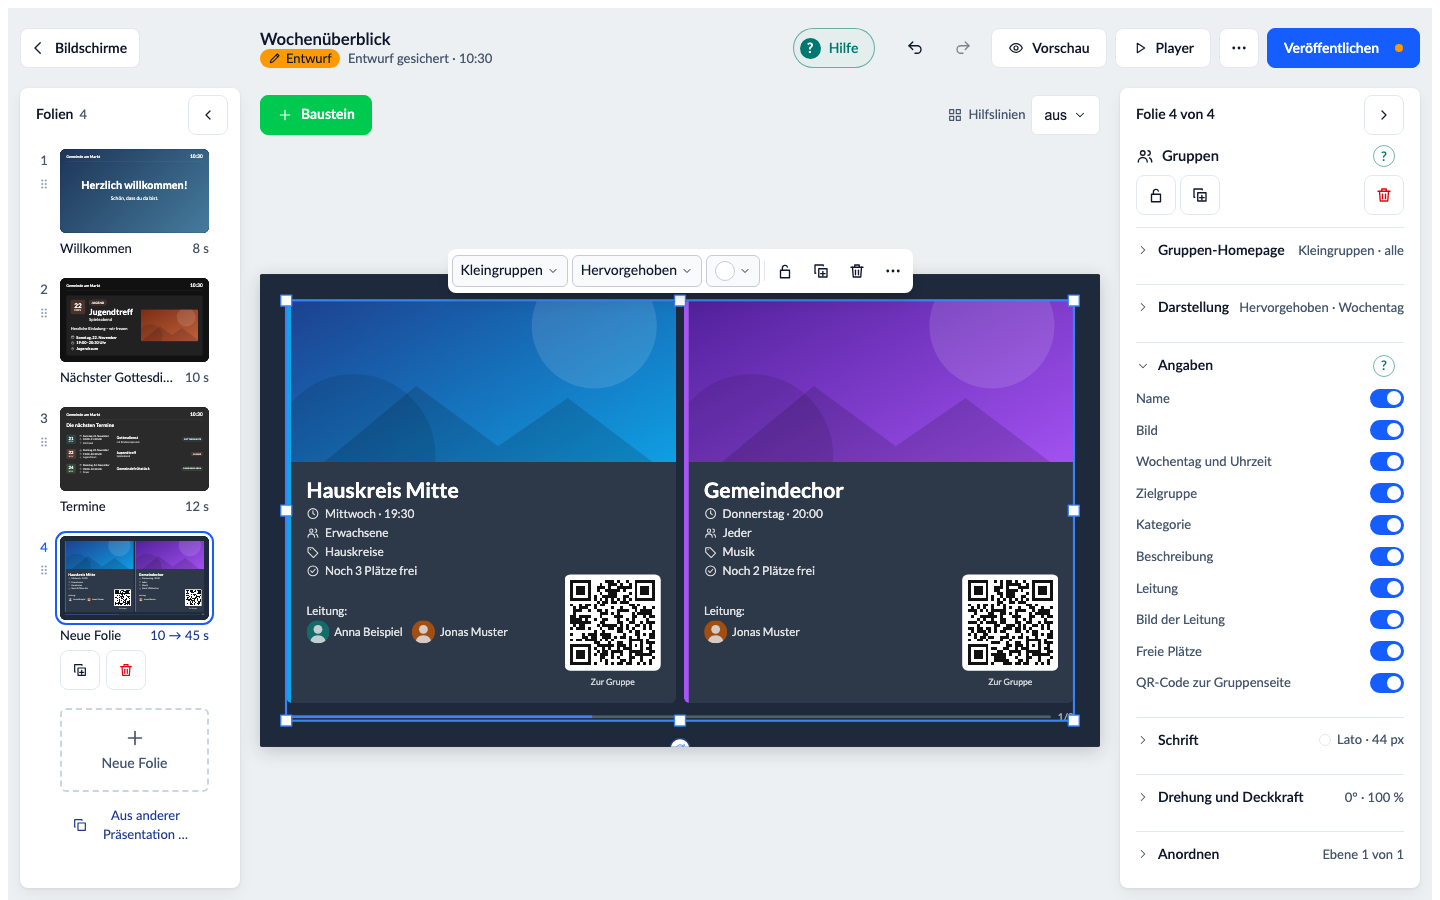
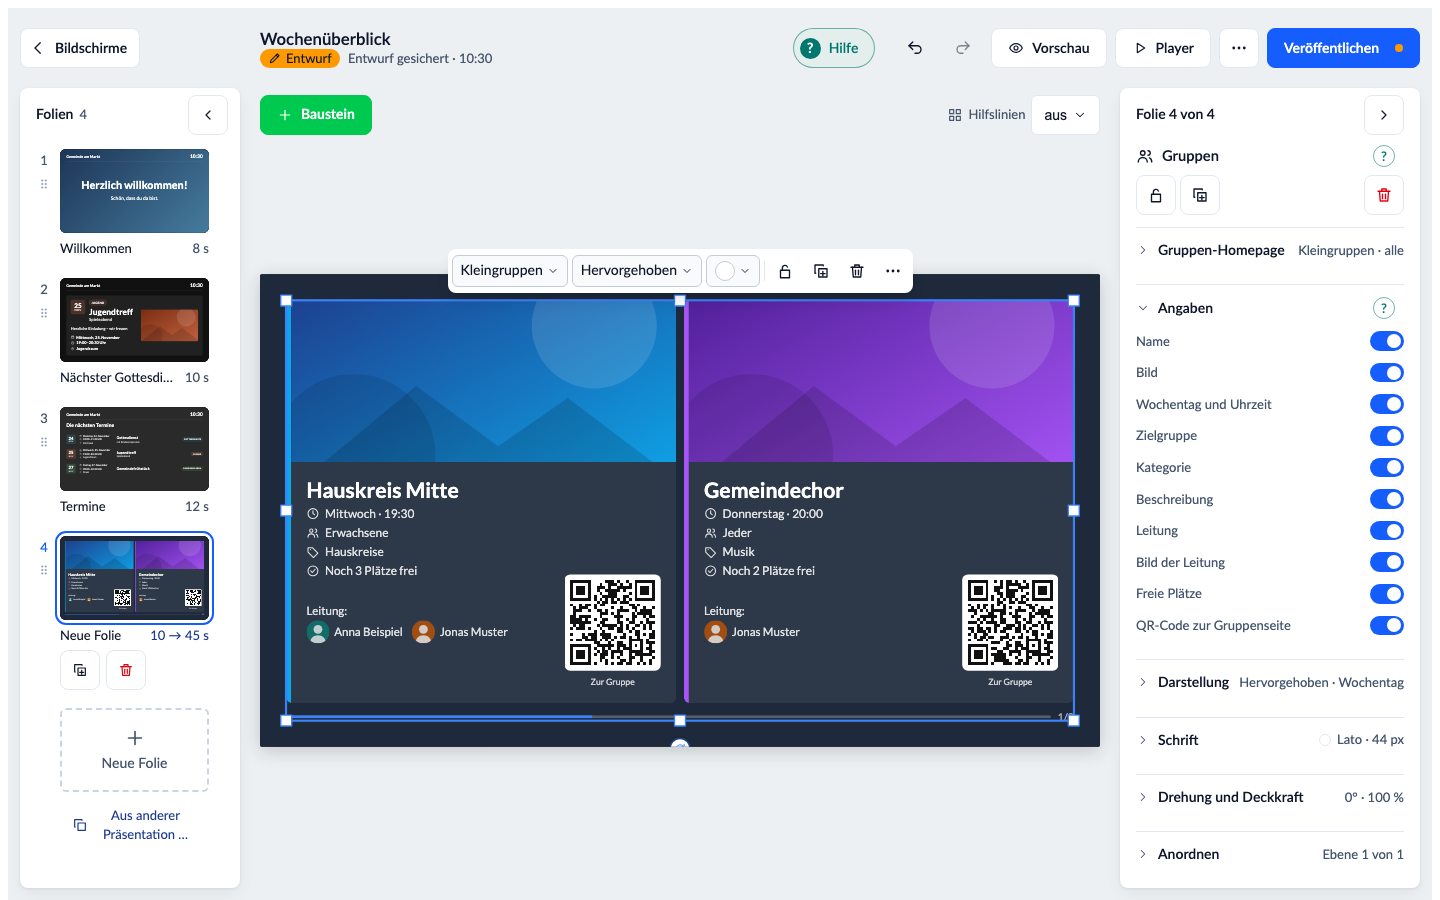
Ein Klappmenü „Angaben“ für Gruppen, Beiträge und Personen (Punkt 128) (#370)
Vorschlag aus #296.

Changed region(s): [[0.7812, 0.3111, 1.0, 0.7778], [0.8125, 0.3111, 0.8438, 0.3733]]

diff --git a/src/designer/inspector/blocks/PeopleInspector.vue b/src/designer/inspector/blocks/PeopleInspector.vue
@@ -15,6 +15,7 @@ import PageProgressHint from '../PageProgressHint.vue';
 import PageProgressOptions from '../PageProgressOptions.vue';
 import PageProgressToggle from '../PageProgressToggle.vue';
 import InspectorSection from '../../InspectorSection.vue';
+import DetailsSection from '../DetailsSection.vue';
 import SelectMenu, { type SelectOption } from '../../SelectMenu.vue';
 import SelectField from '../fields/SelectField.vue';
 import QuickField from '../fields/QuickField.vue';
@@ -252,37 +253,6 @@ const appearanceHelp = computed(() => ({
         </template>
     </InspectorSection>
 
-    <!-- Choosing and ordering what stands under the name is one chip "Angaben 2 von 5" in the short menu (Plan.md 79, C5; 114 B). -->
-    <QuickField quick :label="t.inspector.peopleFields" :face="entriesFace">
-        <SelectMenu
-            :model-value="undefined"
-            :options="pickable"
-            :placeholder="t.inspector.addField"
-            :disabled="!pickable.length"
-            :aria-label="t.inspector.addFieldLabel"
-            testid="people-fields-add"
-            @update:model-value="addEntry"
-        />
-        <p v-if="!keys.length" class="hint">{{ loaded && !fields.length && !released.length ? t.inspector.noFieldsThere : t.inspector.noFieldsChosen }}</p>
-        <InspectorSection v-else id="people-fields" :title="t.inspector.peopleFields" :summary="entriesSummary" :help="th.people.fields">
-            <SortList :items="chosen" :remove-label="t.inspector.removeField" testid="people-field" @move="moveEntry" @remove="removeEntry">
-                <template #actions="{ item }">
-                    <button
-                        v-tip="t.inspector.pinRight"
-                        class="sort-action"
-                        type="button"
-                        :aria-label="t.inspector.pinRight"
-                        :aria-pressed="right.includes(String(item.key))"
-                        data-testid="people-field-pin"
-                        @click="togglePin(String(item.key))"
-                    >
-                        <Icon name="pin" :size="14" />
-                    </button>
-                </template>
-            </SortList>
-        </InspectorSection>
-    </QuickField>
-
     <InspectorSection id="people-name" :title="t.inspector.peopleName" :summary="nameSummary" :help="th.people.name">
         <SelectField
             :model-value="namePresetValue"
@@ -302,6 +272,37 @@ const appearanceHelp = computed(() => ({
             @update:model-value="insertPlaceholder"
         />
     </InspectorSection>
+
+    <!-- Choosing and ordering what stands under the name is one chip "Angaben 2 von 5" in the short menu (Plan.md 79, C5; 114 B); "+ Angabe" is the last row of the section (Plan.md 128). -->
+    <QuickField quick :label="t.inspector.peopleFields" :face="entriesFace">
+        <DetailsSection :summary="entriesSummary" :help="th.people.fields">
+            <SortList v-if="keys.length" :items="chosen" :remove-label="t.inspector.removeField" testid="people-field" @move="moveEntry" @remove="removeEntry">
+                <template #actions="{ item }">
+                    <button
+                        v-tip="t.inspector.pinRight"
+                        class="sort-action"
+                        type="button"
+                        :aria-label="t.inspector.pinRight"
+                        :aria-pressed="right.includes(String(item.key))"
+                        data-testid="people-field-pin"
+                        @click="togglePin(String(item.key))"
+                    >
+                        <Icon name="pin" :size="14" />
+                    </button>
+                </template>
+            </SortList>
+            <p v-else class="hint">{{ loaded && !fields.length && !released.length ? t.inspector.noFieldsThere : t.inspector.noFieldsChosen }}</p>
+            <SelectMenu
+                :model-value="undefined"
+                :options="pickable"
+                :placeholder="t.inspector.addField"
+                :disabled="!pickable.length"
+                :aria-label="t.inspector.addFieldLabel"
+                testid="people-fields-add"
+                @update:model-value="addEntry"
+            />
+        </DetailsSection>
+    </QuickField>
 
     <InspectorSection id="appearance" :title="t.inspector.appearance" :summary="summary" :help="appearanceHelp">
         <TileField quick :model-value="block.layout" :options="PEOPLE_TILES" :label="t.inspector.view" testid="people-layout" @update:model-value="setBlock({ layout: $event })" />

diff --git a/e2e/editor.spec.ts b/e2e/editor.spec.ts
@@ -418,7 +418,7 @@ test.describe('with a finger, in both browsers', () => {
         await page.getByTestId('add-block-menu').click();
         const sheet = page.getByTestId('block-sheet');
         await expect(sheet).toBeVisible();
-        await expect(sheet.locator('[data-testid^="sheet-add-"]')).toHaveCount(19);
+        await expect(sheet.locator('[data-testid^="sheet-add-"]')).toHaveCount(20);
         await sheet.getByTestId('sheet-add-qr').click();
         await expect(sheet).toHaveCount(0);
 
@@ -2344,7 +2344,7 @@ test('the "+ Baustein" sheet describes each block and searches name and sentence
     await expect(sheet).toHaveCount(0);
     await page.getByTestId('add-block-menu').click();
     await expect(page.getByTestId('block-search')).toHaveValue('');
-    await expect(page.getByTestId('block-sheet').locator('[data-testid^="sheet-add-"]')).toHaveCount(19);
+    await expect(page.getByTestId('block-sheet').locator('[data-testid^="sheet-add-"]')).toHaveCount(20);
 });
 
 test('a new text begins as a heading; the text level sets size and weight in one step (Plan.md 79, C8)', async ({ page }) => {
@@ -2559,4 +2559,24 @@ test.describe('drafts (Plan.md 79, Paket E)', () => {
         await expect(flag).toHaveText('Entwurf');
         await expect(flag).toHaveAttribute('data-tip', /^Entwurf von .+, heute \d\d:\d\d – noch nicht veröffentlicht$/);
     });
+});
+
+// "Angaben" is the same section in groups, posts and people, right before "Darstellung"; with people the "+" stands inside (Plan.md 128).
+test('Angaben stands before Darstellung in groups, posts and people, with the plus inside for people', async ({ page }) => {
+    await page.goto('./');
+    await page.getByTestId('open-editor').first().click();
+    await expect(page.getByTestId('slide-item')).toHaveCount(3);
+    await page.getByTestId('add-slide').click();
+    for (const type of ['groups', 'posts', 'people']) {
+        await addBlock(page, type);
+        const ids = await page.locator('[data-testid^="section-"]:not([data-testid$="-toggle"])').evaluateAll((els) => els.map((el) => el.getAttribute('data-testid')));
+        expect(ids.indexOf('section-fields')).toBeGreaterThan(-1);
+        expect(ids.indexOf('section-appearance')).toBe(ids.indexOf('section-fields') + 1);
+    }
+    await openSection(page, 'fields');
+    await page.getByTestId('people-field-remove').click();
+    await expect(page.getByTestId('people-field-row')).toHaveCount(0);
+    await expect(page.getByTestId('section-fields').getByTestId('people-fields-add')).toBeVisible();
+    // The hint stands inside the section too, not before it.
+    await expect(page.getByTestId('section-fields')).toContainText('Noch keine Angaben gewählt');
 });

diff --git a/src/designer/inspector/blocks/PostsInspector.vue b/src/designer/inspector/blocks/PostsInspector.vue
@@ -12,6 +12,7 @@ import PageProgressHint from '../PageProgressHint.vue';
 import PageProgressOptions from '../PageProgressOptions.vue';
 import PageProgressToggle from '../PageProgressToggle.vue';
 import InspectorSection from '../../InspectorSection.vue';
+import DetailsSection from '../DetailsSection.vue';
 import { useInspectorContext } from '../context';
 import NumberField from '../fields/NumberField.vue';
 import SegmentField from '../fields/SegmentField.vue';
@@ -106,6 +107,17 @@ function toggleGroup(id: number, on: boolean): void {
             </p>
         </InspectorSection>
     </QuickField>
+    <DetailsSection :summary="fieldsSummary" :help="p.details">
+        <ToggleField
+            v-for="key in SHOW_KEYS"
+            :key="key"
+            :model-value="block[key]"
+            :label="SHOW_LABELS[key]"
+            :disabled="block.layout === 'list' && (key === 'showImage' || key === 'showAuthor')"
+            :testid="key === 'showImage' ? 'posts-image' : key === 'showAuthor' ? 'posts-author' : `posts-${key.slice(4).toLowerCase()}`"
+            @update:model-value="setBlock({ [key]: $event })"
+        />
+    </DetailsSection>
     <InspectorSection id="appearance" :title="t.inspector.appearance" :summary="summary" :help="appearanceHelp">
         <TileField quick :model-value="block.layout" :options="POSTS_TILES" :label="t.inspector.view" testid="posts-layout" @update:model-value="setBlock({ layout: $event })" />
         <NumberField :model-value="block.limit" :label="t.inspector.count" :min="1" :max="10" testid="posts-limit" @update:model-value="setBlock({ limit: $event })" />
@@ -143,17 +155,6 @@ function toggleGroup(id: number, on: boolean): void {
                 @update:model-value="setBlock({ imageFocus: $event })"
             />
         </template>
-    </InspectorSection>
-    <InspectorSection id="fields" :title="t.inspector.details" :summary="fieldsSummary" :help="p.details">
-        <ToggleField
-            v-for="key in SHOW_KEYS"
-            :key="key"
-            :model-value="block[key]"
-            :label="SHOW_LABELS[key]"
-            :disabled="block.layout === 'list' && (key === 'showImage' || key === 'showAuthor')"
-            :testid="key === 'showImage' ? 'posts-image' : key === 'showAuthor' ? 'posts-author' : `posts-${key.slice(4).toLowerCase()}`"
-            @update:model-value="setBlock({ [key]: $event })"
-        />
     </InspectorSection>
     <FontSection :block="block" effects="shadow" />
 </template>

diff --git a/src/designer/inspector/blocks/GroupsInspector.vue b/src/designer/inspector/blocks/GroupsInspector.vue
@@ -14,6 +14,7 @@ import PageProgressHint from '../PageProgressHint.vue';
 import PageProgressOptions from '../PageProgressOptions.vue';
 import PageProgressToggle from '../PageProgressToggle.vue';
 import InspectorSection from '../../InspectorSection.vue';
+import DetailsSection from '../DetailsSection.vue';
 import { useInspectorContext } from '../context';
 import NumberField from '../fields/NumberField.vue';
 import SegmentField from '../fields/SegmentField.vue';
@@ -184,6 +185,18 @@ const fieldsSummary = computed(() => t.common.countOf(GROUP_SHOW_KEYS.filter((ke
         </template>
     </InspectorSection>
 
+    <DetailsSection :summary="fieldsSummary" :help="help.details">
+        <ToggleField
+            v-for="key in GROUP_SHOW_KEYS"
+            :key="key"
+            :model-value="block.show[key]"
+            :label="GROUP_SHOW_LABELS[key]"
+            :disabled="(block.layout === 'list' && (key === 'note' || key === 'qr' || key === 'leaderImages')) || (key === 'leaderImages' && !block.show.leaders)"
+            :testid="`group-show-${key}`"
+            @update:model-value="setBlock({ show: { ...block.show, [key]: $event } })"
+        />
+    </DetailsSection>
+
     <InspectorSection id="appearance" :title="t.inspector.appearance" :summary="summary" :help="appearanceHelp">
         <TileField quick :model-value="block.layout" :options="GROUPS_TILES" :label="t.inspector.view" testid="groups-layout" @update:model-value="setBlock({ layout: $event })" />
         <SegmentField
@@ -217,17 +230,6 @@ const fieldsSummary = computed(() => t.common.countOf(GROUP_SHOW_KEYS.filter((ke
         <PageProgressHint />
     </InspectorSection>
 
-    <InspectorSection id="fields" :title="t.inspector.details" :summary="fieldsSummary" :help="help.details">
-        <ToggleField
-            v-for="key in GROUP_SHOW_KEYS"
-            :key="key"
-            :model-value="block.show[key]"
-            :label="GROUP_SHOW_LABELS[key]"
-            :disabled="(block.layout === 'list' && (key === 'note' || key === 'qr' || key === 'leaderImages')) || (key === 'leaderImages' && !block.show.leaders)"
-            :testid="`group-show-${key}`"
-            @update:model-value="setBlock({ show: { ...block.show, [key]: $event } })"
-        />
-    </InspectorSection>
     <FontSection :block="block" effects="shadow" />
 </template>
 

diff --git a/e2e/people.spec.ts b/e2e/people.spec.ts
@@ -18,13 +18,13 @@ test('the people block says the group is not set up, and its inspector keeps its
 
     // Group first, then roles, then the one list "Angaben", then "Darstellung", then "Schrift" (AGENTS.md, Ordnung im Inspektor); nothing is open at the start.
     const ids = await page.locator('[data-testid^="section-"]:not([data-testid$="-toggle"])').evaluateAll((els) => els.map((el) => el.getAttribute('data-testid')));
-    const order = ['section-people-group', 'section-people-roles', 'section-people-fields', 'section-people-name', 'section-appearance', 'section-font'];
+    const order = ['section-people-group', 'section-people-roles', 'section-people-name', 'section-fields', 'section-appearance', 'section-font'];
     expect(ids.filter((id) => order.includes(id!))).toEqual(order);
     await expect(page.getByTestId('section-people-roles')).not.toHaveAttribute('open', '');
 
     await expect(page.getByTestId('section-people-group')).not.toHaveAttribute('open', '');
     // One list "Angaben" (schema 1.56): a new block starts with the role; it can be taken out and put back (Plan.md 114 B).
-    await openSection(page, 'people-fields');
+    await openSection(page, 'fields');
     await expect(page.getByTestId('people-field-name')).toHaveText(['Rolle in der Gruppe']);
     await page.getByTestId('people-field-remove').click();
     await expect(page.getByTestId('people-field-row')).toHaveCount(0);

diff --git a/src/designer/inspector/DetailsSection.vue b/src/designer/inspector/DetailsSection.vue
@@ -1,0 +1,19 @@
+<script setup lang="ts">
+/**
+ * The foldable "Angaben" of a block (Plan.md 128): the same section for groups, posts and people – one id, so open or closed
+ * stays alike from block to block, always there, even without a choice. Fixed details are switches, open ones a sortable list with
+ * "+ Angabe" as its last row (people); the caller puts them into the slot and says "n von m" as `summary`.
+ */
+import { t } from '../../i18n/designer';
+import type { HelpTopic } from '../help/types';
+import InspectorSection from '../InspectorSection.vue';
+
+defineProps<{ summary: string; help: HelpTopic }>();
+defineSlots<{ default(): unknown }>();
+</script>
+
+<template>
+    <InspectorSection id="fields" :title="t.inspector.details" :summary="summary" :help="help">
+        <slot />
+    </InspectorSection>
+</template>

diff --git a/Plan.md b/Plan.md
@@ -26,7 +26,7 @@ Ein ChurchTools Custom Module (CCM), mit dem angemeldete ChurchTools-Anwender In
 10. **Proben: Präsentation vom Handy wählen** (Punkt 125) – Musiker überschreiben für die Probe die Präsentation aus dem Zeitplan, auf freigegebenen Bildschirmen und für eine wählbare Dauer; Eckpunkte entschieden (2026-11-16), noch kein Bauplan.
 11. **Folie an ProPresenter senden** (Punkt 126) – entschieden: Weg A, Web-Element in ProPresenter mit der Adresse eines Players; testen beim Termin vor Ort (wie Punkt 121 F). Wege B bis D für später.
 12. **Kiosk am Touch-Bildschirm prüfen** (Punkt 127, #329) – veröffentlicht mit `v0.64.0`/`v0.64.1`, Punkt im Archiv. Offen: der Test am echten Touch-Bildschirm, sobald Bernhard einen beschafft hat (er nimmt fürs Foyer „erst nach dem ersten Tippen“, mit Schild). **Geparkt:** seine Idee getrennter Bedienelemente für Seite und Baustein (2026-11-22) – erst Erfahrungen im Betrieb sammeln, mehrere blätternde Bausteine auf einer Folie hält er selbst für unpraktisch.
-13. **Ein Bedienelement „Angaben“** (Punkt 128, #296) – Wunsch von Bernhard: alle Bausteine wählen ihre Angaben gleich; heute verschieden bei „Gruppen“ und „Personen“. Noch kein Bauplan. Beantwortet am 2026-11-23 (verspätet).
+13. **Ein Bedienelement „Angaben“** (Punkt 128, #296) – Wunsch von Bernhard: alle Bausteine wählen ihre Angaben gleich; heute verschieden bei „Gruppen“ und „Personen“. Gebaut (2026-11-23, unveröffentlicht). Beantwortet am 2026-11-23 (verspätet).
 14. **Editor übernimmt Änderungen aus ChurchTools** (Punkt 129, #297) – Wunsch von Bernhard: geänderte Daten ohne Neuladen, dazu eine Adresse, die zur bearbeiteten Folie führt. Noch kein Bauplan. Beantwortet am 2026-11-23 (verspätet), mit der Frage, ob ein Knopf „Daten neu laden“ genügt – Antwort steht aus.
 
 **Kleine Reste, kein Auftrag, bis jemand sie wählt** *(durchgesehen mit dem Nutzer am 2026-10-10: später; „Rechte aktualisieren“ echt ausprobiert, ohne Auffälligkeiten)*:
@@ -545,7 +545,17 @@ Hier stehen nur Punkte, die noch nicht veröffentlicht sind, mit vollem Text. Di
         - **D – Lokale API:** löst Folien und Meldungen in ProPresenter aus, schickt also Steuerung oder Text, kein Bild. Vom Player aus voraussichtlich nicht erreichbar (HTTPS → HTTP im lokalen Netz, G82), nur über ein Hilfsprogramm auf dem ProPresenter-Rechner – dasselbe wie für 121 F.
     - **Test von A beim Termin vor Ort** (zusammen mit 121 F): eigenen Bildschirm „ProPresenter“ anlegen, seine Player-Adresse als Web-Element in eine ProPresenter-Folie setzen; prüfen: Anmeldung und Sitzung über Tage, Service Worker und Offline-Kopie, Videos mit Ton, Auflösung und Seitenverhältnis, durchsichtiger Hintergrund für Einblendungen über Video, Verhalten beim Wechsel der ProPresenter-Folie (lädt der Player jedes Mal neu?). Ergebnis als Befund in Befunde.md.
 
-128. **Ein einheitliches Bedienelement „Angaben“** *(Issue #296, Wunsch von Bernhard, 2026-11-08; noch kein Bauplan)*. Heute wählen die Bausteine ihre Angaben verschieden: „Gruppen“ bietet alle möglichen Angaben mit Schaltern an, „Personen“ zeigt nur die aktiven, sortierbar und mit Pin, und ergänzt weitere über „+ Angaben“ – das steht dort außerhalb des Klappmenüs „Angaben“. Gewünscht: ein Bedienelement für alle Bausteine; Bernhard skizziert beide Stile, bevorzugt offenbar den von „Personen“ mit dem „+“ in der Liste. Passt zu „Änderungen auf alle Bausteine“ und zur Ordnung im Inspektor (AGENTS.md). **Zu klären:** welcher Stil (oder beide, je nach Zahl der Angaben); welche Bausteine Angaben haben; ob Sortieren und Pin überall Sinn ergeben.
+128. **Ein einheitliches Bedienelement „Angaben“** *(Issue #296, Wunsch von Bernhard, 2026-11-08; Bauplan seit 2026-11-23)*. Heute wählen die Bausteine ihre Angaben verschieden: „Gruppen“ bietet alle möglichen Angaben mit Schaltern an, „Personen“ zeigt nur die aktiven, sortierbar und mit Pin, und ergänzt weitere über „+ Angaben“ – das steht dort außerhalb des Klappmenüs „Angaben“. Gewünscht: ein Bedienelement für alle Bausteine; Bernhard skizziert beide Stile, bevorzugt offenbar den von „Personen“ mit dem „+“ in der Liste. Passt zu „Änderungen auf alle Bausteine“ und zur Ordnung im Inspektor (AGENTS.md). **Entschieden (Nutzer, 2026-11-23):** ein gemeinsames Klappmenü in zwei Formen; Platz vor „Darstellung“; erst Gruppen, Beiträge, Personen; Sortieren und Pin nur bei Personen.
+
+    **Bauplan** *(2026-11-23)* – ein Stück, ein PR, Release danach:
+    - **Gemeinsame Komponente** `src/designer/inspector/DetailsSection.vue`: `InspectorSection` mit `id="fields"` (eine gemeinsame id für alle drei, damit „offen/zu“ zwischen den Bausteinen gleich bleibt), Titel `t.inspector.details` („Angaben“), Zusammenfassung `t.common.countOf(n, m)`, Hilfe als Prop, Inhalt als Slot. Immer sichtbar, auch ohne Auswahl.
+    - **Gruppen** (`GroupsInspector.vue`) und **Beiträge** (`PostsInspector.vue`): ihre Schalter unverändert in die Komponente; das Klappmenü rückt vor „Darstellung“.
+    - **Personen** (`PeopleInspector.vue`): Die sortierbare Liste mit Pin bleibt; „+ Angaben“ (`people-fields-add`) wandert als letzte Zeile **in** das Klappmenü; der Hinweis „Noch keine Angaben gewählt …“ steht ohne Auswahl im Klappmenü statt davor. Das Kurzmenü behält seinen Chip „Angaben n von m“ (`QuickField`) mit Auswahl und Liste.
+    - **Ordnung im Inspektor** in AGENTS.md um „Angaben“ ergänzt (erledigt mit dem Bauplan). Termine und Ablauf behalten ihre Schalter in „Darstellung“ – zweiter Schritt, wenn sich das Bedienelement bewährt.
+    - **Tests:** e2e per `grep` nach `section-people-fields`, `people-fields-add`, `group-show-`, `posts-` in `e2e/` – die Reihenfolge der Klappmenüs in `people.spec.ts` und die Prüfungen in `editor.spec.ts` anpassen; ein e2e, der in allen drei Bausteinen „Angaben“ vor „Darstellung“ findet und bei Personen „+ Angabe“ im Klappmenü. `npm run docs:screenshots` prüfen (Bilder vom Inspektor).
+    - **Doku:** `docs/Funktionen.md` bei Personen, falls dort „+ Angaben“ beschrieben ist; Hilfetexte unverändert, nur prüfen, ob sie den Platz nennen.
+    - **Fertig, wenn** alle drei Bausteine „Angaben“ als gleiches Klappmenü vor „Darstellung“ zeigen, bei Personen das „+“ im Klappmenü steht und die betroffenen e2e grün sind. Danach in #296 melden.
+    - **Gebaut am 2026-11-23** (unveröffentlicht): `DetailsSection.vue`, id `fields` für alle drei; bei Personen abweichend vom Bauplan „Name“ vor „Angaben“ (Nutzerregel: „Angaben“ direkt vor „Darstellung“). Vom Prüfer gesehen, ohne Fehler; das Kurzmenü ist nur durch Lesen belegt, kein e2e. Nebenbei: zwei e2e erwarteten seit dem „Liedblatt“ 19 statt 20 Bausteine in der Palette – nachgezogen.
 
 129. **Editor übernimmt Änderungen aus ChurchTools, Adresse zur Folie** *(Issue #297, Wunsch von Bernhard, 2026-11-08; noch kein Bauplan)*. Wer im Editor gestaltet und in einem zweiten Fenster Daten in ChurchTools ändert, sieht die Änderung erst nach Neuladen – und muss dann wieder zur Folie navigieren. Zwei Teile: **A** der Editor fragt geänderte Daten nach (Bernhard nennt einen Mechanismus „poll for news“ – vor dem Bauen in Academy und API prüfen, was ChurchTools dafür bietet; sonst ein Knopf „Daten neu laden“ oder ein Takt wie im Player); **B** die Adresse des Editors trägt Präsentation und Folie, damit ein Neuladen dort wieder landet.
 

diff --git a/AGENTS.md b/AGENTS.md
@@ -64,7 +64,10 @@ seinen Platz nach diesen Regeln, statt lose angehängt zu werden; wer plant, leg
 und Iststand in `docs/Plan-Archiv.md`, Punkt 88; was offen ist, in `Plan.md`, Punkt 88.
 
 - **Reihenfolge:** Kopf → Inhalt (lose) → Auswahl-Klappmenüs mit Fachnamen (Kalender, Gruppen, Räume …) →
-  „Darstellung" → „Schrift" → Drehung und Deckkraft → Anordnen → Genaue Maße.
+  „Angaben" → „Darstellung" → „Schrift" → Drehung und Deckkraft → Anordnen → Genaue Maße.
+- **„Angaben" ist überall dasselbe Klappmenü** *(seit 2026-11-23, Plan.md 128)*: Titel „Angaben", Zusammenfassung
+  „n von m", immer da (auch leer). Feste Angaben als Schalter; offene Angaben als sortierbare Liste mit „+ Angabe" als
+  letzter Zeile im Klappmenü – nie außerhalb.
 - **Lose steht nur der Inhalt** (was den Baustein füllt), alles andere in einem Klappmenü, immer `InspectorSection`.
 - **„Darstellung" ist immer ein Klappmenü** (Kacheln zuerst, dann Zeitraum, Anzahl, Dauer, Schalter, Farben), nie die
   Beschriftung eines Feldes. **„Schrift"** enthält nur, was den Text betrifft.
